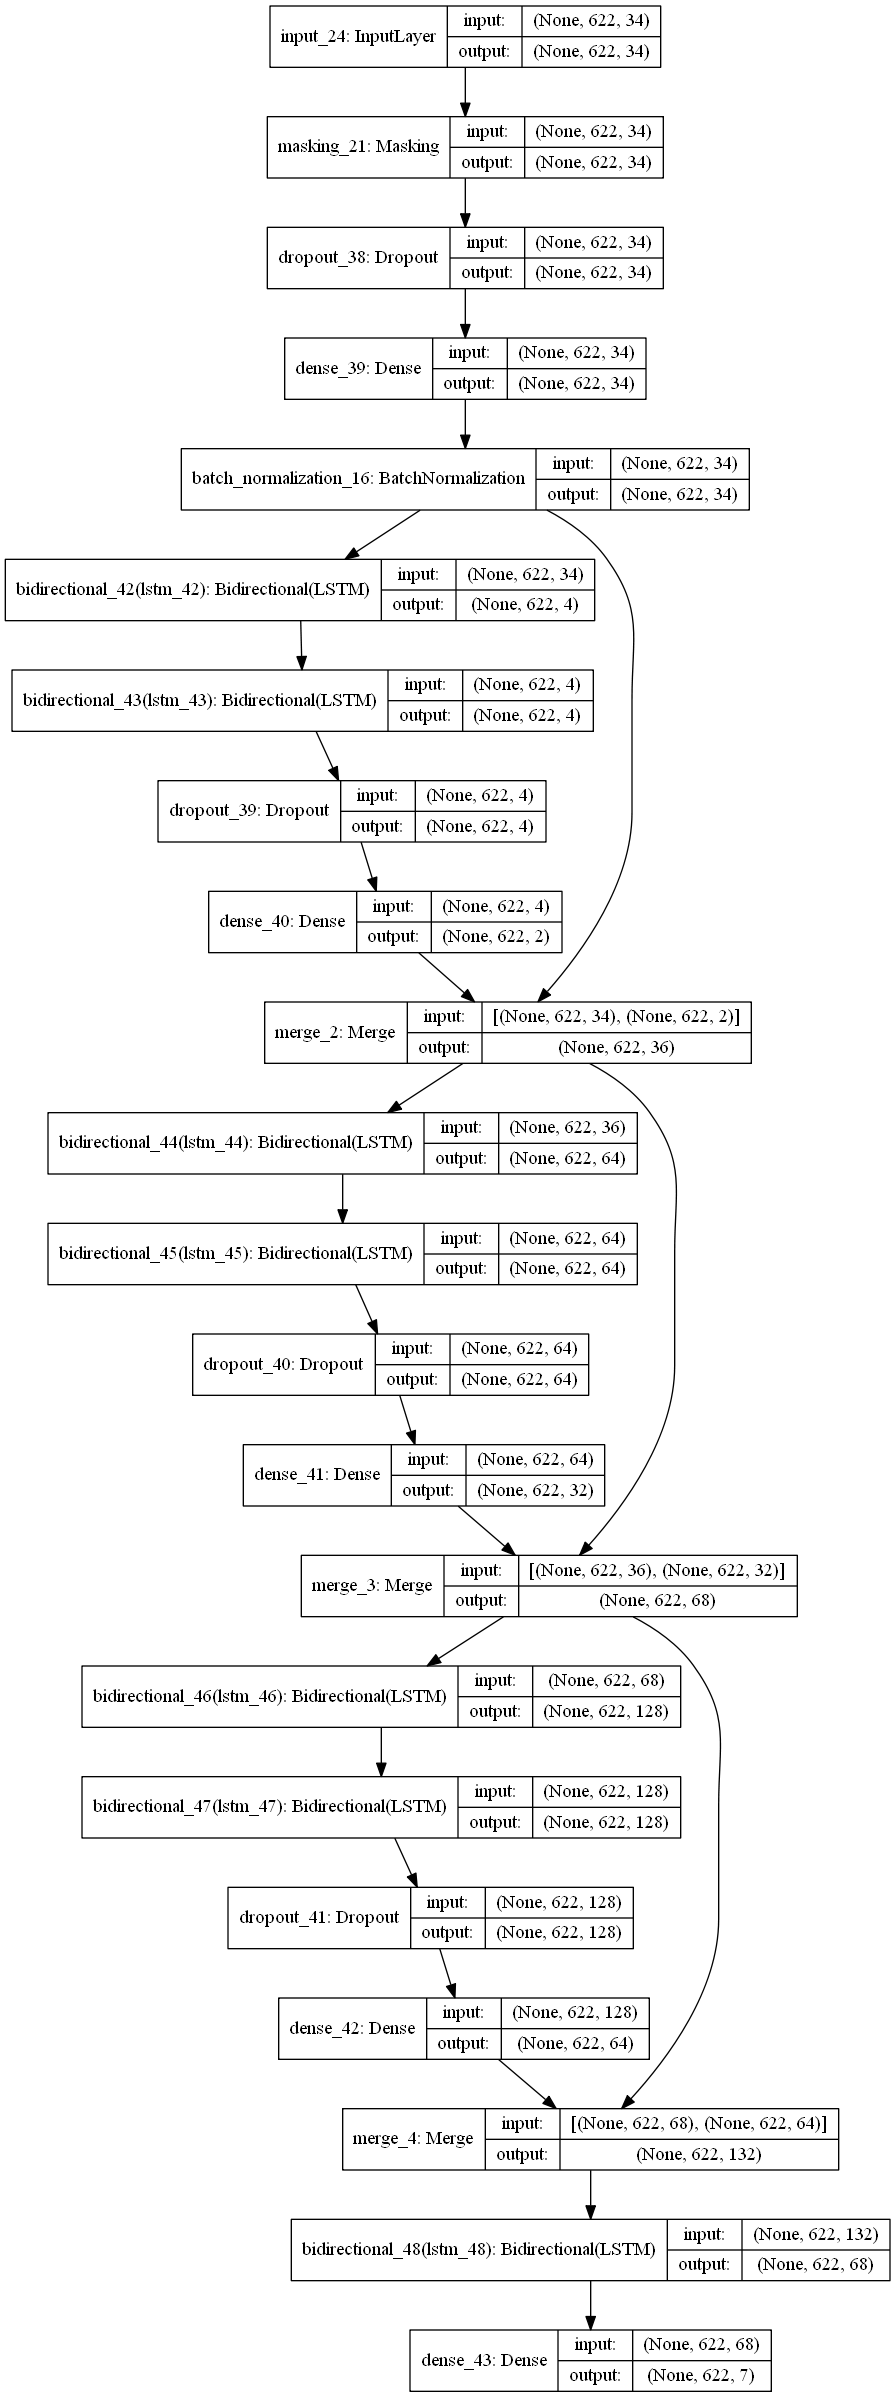
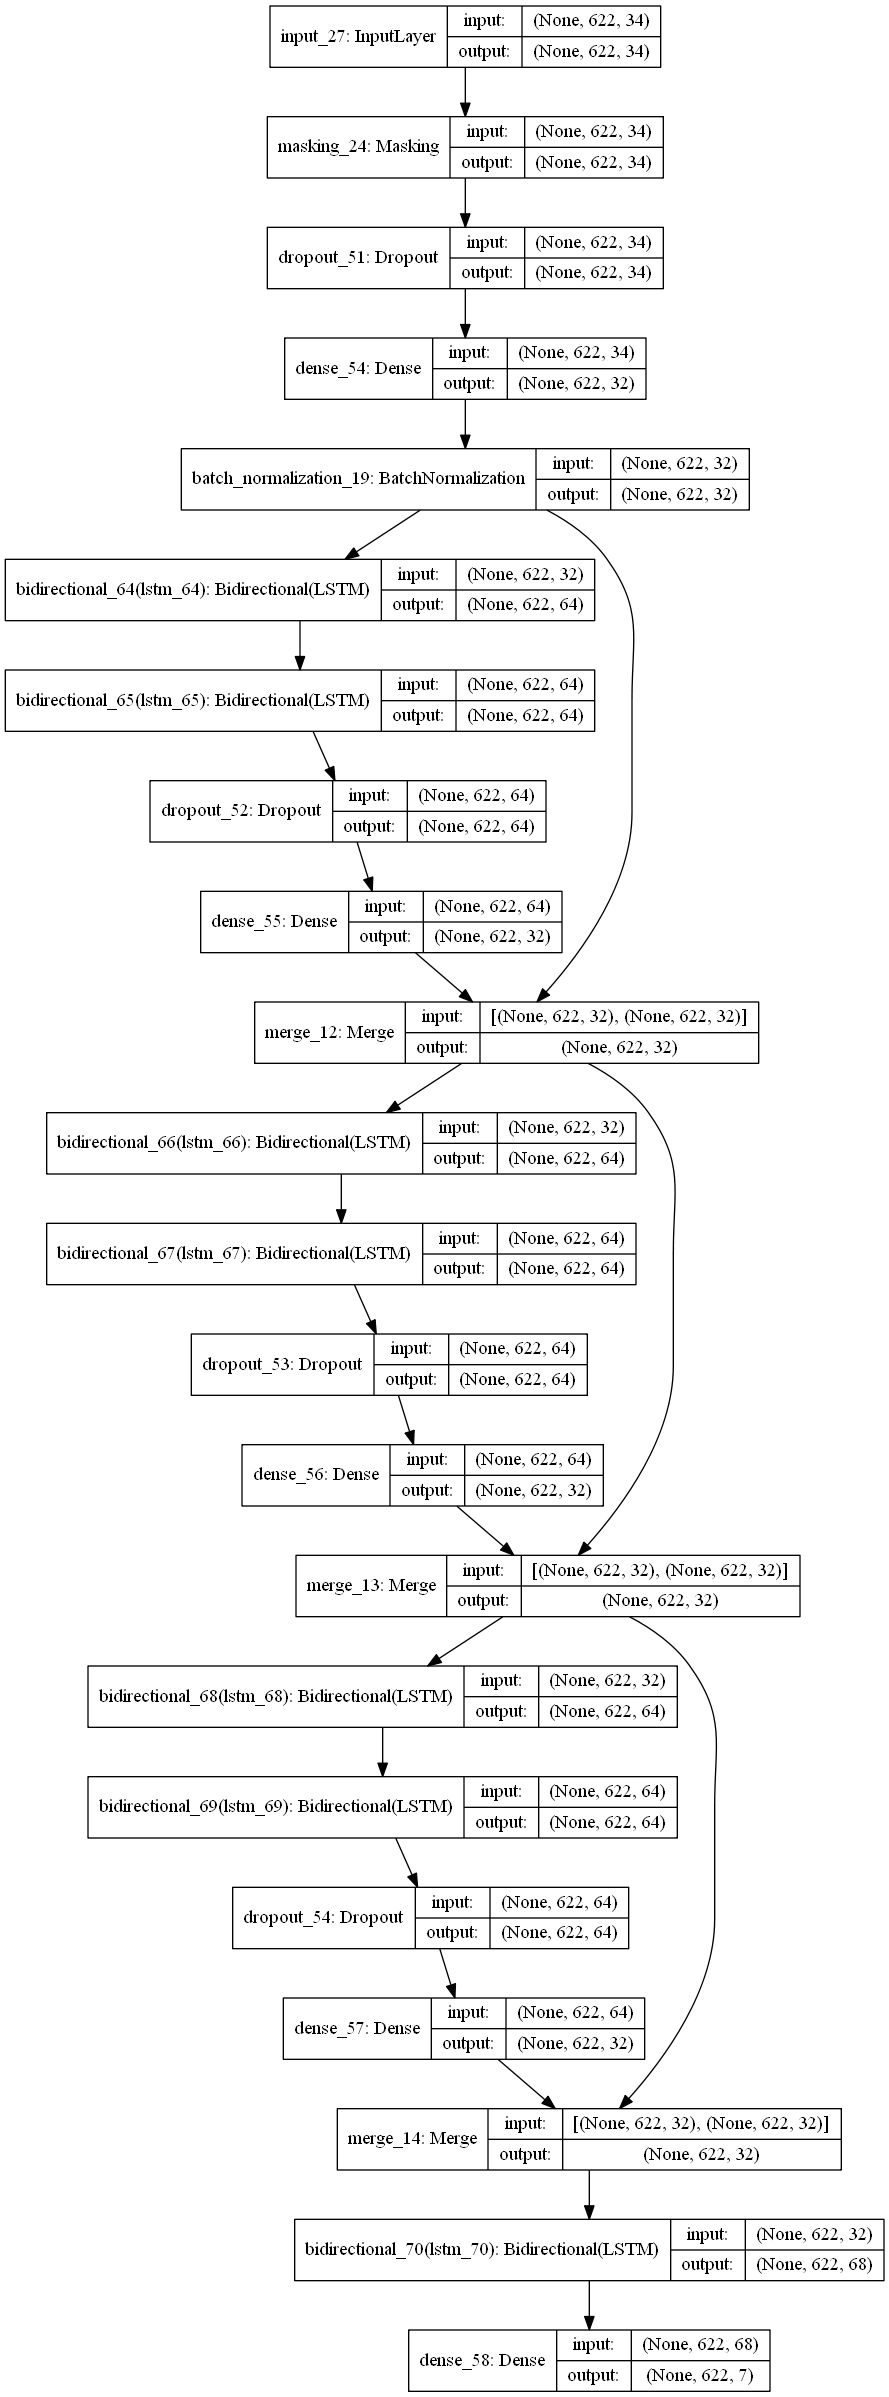
introducing deep and wide residual networks

diff --git a/build_model_residual.py b/build_model_residual.py
@@ -32,7 +32,7 @@ from keras.layers import BatchNormalization
 
 from keras.constraints import max_norm
 #%%   
-def ResNet_LSTM_Beta(X_train,Y_train,dropout,hidden_units,Dense_Unit,activationF,residual_blocks):   
+def ResNet_deep_Beta(X_train,Y_train,dropout,hidden_units,Dense_Unit,activationF,residual_blocks):   
 
        def Block_unit(X_train,dropout,activationF,hidden_units,Dense_Unit):
             def unit(x):
@@ -60,9 +60,9 @@ def ResNet_LSTM_Beta(X_train,Y_train,dropout,hidden_units,Dense_Unit,activationF
        i=layers.Dense(Dense_Unit, activation=activationF, kernel_constraint=max_norm(max_value=3.))(i) 
        i=BatchNormalization(axis=1)(i)     
           
-       i = cake(residual_blocks,2,X_train,dropout,activationF)(i) 
        i = cake(residual_blocks,32,X_train,dropout,activationF)(i) 
-       i = cake(residual_blocks,64,X_train,dropout,activationF)(i)
+       i = cake(residual_blocks,32,X_train,dropout,activationF)(i) 
+       i = cake(residual_blocks,32,X_train,dropout,activationF)(i)
        
                
        i=layers.Bidirectional(LSTM(hidden_units, return_sequences=True, kernel_constraint=max_norm(max_value=3.), dropout=dropout, recurrent_dropout=dropout))(i)                   
@@ -71,107 +71,55 @@ def ResNet_LSTM_Beta(X_train,Y_train,dropout,hidden_units,Dense_Unit,activationF
        model = Model(inputs=inp,outputs=i)  
        
        return model
-#%%   
-def ResNet_LSTM_1(X_train,Y_train,dropout,hidden_units,activationF,residual_blocks):   
 
-       def Block_unit(which,X_train,dropout,activationF,hidden_units,x):
-            def intro(x,X_train,activationF):
-                 x=layers.Masking(mask_value=666,input_shape=(X_train.shape[1],X_train.shape[2]))(x)
-                 x=layers.Dropout(dropout/2, noise_shape=(None, 1, X_train.shape[2]))(x)
-                 x=layers.Dense(34, activation=activationF, kernel_constraint=max_norm(max_value=3.))(x) 
-                 x=BatchNormalization(axis=1)(x)         
-                 return x
-            
-            def residual_LSTM_block(X_train,hidden_units,dropout):
+#%%    
+def ResNet_wide_Beta(X_train,Y_train,dropout,hidden_units,Dense_Unit,activationF,residual_blocks):   
+
+       def Block_unit(X_train,dropout,activationF,hidden_units,Dense_Unit):
+            def unit(x):
                  ident = x
                  x=layers.Bidirectional(LSTM(hidden_units, return_sequences=True, kernel_constraint=max_norm(max_value=3.), dropout=dropout, recurrent_dropout=dropout))(x)
-                 x=layers.Bidirectional(LSTM(hidden_units, return_sequences=True, kernel_constraint=max_norm(max_value=3.), dropout=dropout, recurrent_dropout=dropout))(x)                   
+                 x=layers.Bidirectional(LSTM(hidden_units, return_sequences=True, kernel_constraint=max_norm(max_value=3.), dropout=dropout, recurrent_dropout=dropout))(x)                                    
                  x=layers.Dropout(dropout, noise_shape=(None, 1, hidden_units*2))(x) 
-                 x=layers.Dense(hidden_units, activation=activationF, kernel_constraint=max_norm(max_value=3.))(x)                                  
-#                 x = merge([ident,x],mode='sum')
+                 x=layers.Dense(Dense_Unit, activation=activationF, kernel_constraint=max_norm(max_value=3.))(x)                                                  
+                 x = merge([ident,x], mode = 'sum') #mode 'sum' concat
                  return x
-
-            def outro(X_train,Y_train,hidden_units,dropout):
-                 ident = x
-                 x=layers.Bidirectional(LSTM(hidden_units, return_sequences=True, kernel_constraint=max_norm(max_value=3.), dropout=dropout, recurrent_dropout=dropout))(x)
-                 x=layers.Bidirectional(LSTM(hidden_units, return_sequences=True, kernel_constraint=max_norm(max_value=3.), dropout=dropout, recurrent_dropout=dropout))(x)                   
-                 x=layers.Dropout(dropout, noise_shape=(None, 1, hidden_units*2))(x) 
-                 x=layers.Dense(Y_train.shape[-1],activation='softmax', kernel_constraint=max_norm(max_value=3.))(x)
-#                 x = merge([ident,x],mode='sum')
-            return x         
+            return unit
                              
-            if which==0:
-                 out=intro(x,X_train,activationF)(x)
-            if which == 1337:
-                 out=outro(x,X_train,Y_train,hidden_units,dropout)(x)
-            else:
-                out=residual_LSTM_block(x,X_train,hidden_units,dropout)(x)                  
-
-            return out
-            
        def cake(residual_blocks,hidden_units,X_train,dropout,activationF):
               def unit(x):
                      for j in range(residual_blocks):
-                            if residual_blocks==1:
-                                   x=Block_unit(j,X_train,dropout,activationF,hidden_units,x)(x)  
-                                   x=Block_unit(1,X_train,dropout,activationF,hidden_units,x)(x)                            
-                                   x=Block_unit(1337,X_train,dropout,activationF,hidden_units,x)(x)
-                            else:
-                                   if i!=(residual_blocks-1): 
-                                          x=Unit(j,X_train,dropout,activationF,x,hidden_units)(x)  
-                                   else:
-                                          x=Unit(1337,X_train,dropout,activationF,x,hidden_units)(x)
-                            return x
-                           
+                         x=Block_unit(X_train,dropout,activationF,hidden_units,Dense_Unit)(x)              
+                         return x                          
               return unit
     
        
        inp = Input(shape=(X_train.shape[1],X_train.shape[2]))
 #       i = inp
-              
-       i = cake(residual_blocks,2,X_train,dropout,activationF)(inp) 
-       i = cake(residual_blocks,32,X_train,dropout,activationF)(i) 
-       i = cake(residual_blocks,64,X_train,dropout,activationF)(i)
-       
-       i=layers.Bidirectional(LSTM(hidden_units, return_sequences=True, kernel_constraint=max_norm(max_value=3.), dropout=dropout, recurrent_dropout=dropout))(i)                   
-       i = Dense(Y_train.shape[-1],activation='softmax', kernel_constraint=max_norm(max_value=3.))(i)
-
-       model = Model(inputs=inp,outputs=i)  
-       
-       return model
-       
-#%%       
-       
-def ResNeXt_LSTM_1(x):
-       def Add_common_layers(y,activationF):
-              y=layers.Masking(mask_value=666,input_shape=(y.shape[1],y.shape[2]))(y)
-              y=layers.Dropout(0.2, noise_shape=(None, 1, y.shape[2]))(y)
-              y=layers.Dense(32, activation=activationF, kernel_constraint=max_norm(max_value=3.))(y)
-              return y
-       
-       def grouped_LSTM(y,hidden_units,dropout,NR_Wege):
-              if cardinality == 1:
-                     y=layers.Bidirectional(LSTM(hidden_units, return_sequences=True, kernel_constraint=max_norm(max_value=3.), dropout=dropout, recurrent_dropout=dropout))(y)
-                     y=layers.Bidirectional(LSTM(hidden_units, return_sequences=True, kernel_constraint=max_norm(max_value=3.), dropout=dropout, recurrent_dropout=dropout))(y)
-                     return y
-                     assert not NR_Wege % cardinality
-              _d = NR_Wege // cardinality
-
-        # in a grouped convolution layer, input and output channels are divided into `cardinality` groups,
-        # and convolutions are separately performed within each group
-              groups = []
-              for j in range(cardinality):
-                  group = layers.Lambda(lambda z: z[:, :, :, j * _d:j * _d + _d])(y)
-                  groups.append(layers.Conv2D(_d, kernel_size=(3, 3), strides=_strides, padding='same')(group))
+       i=layers.Masking(mask_value=666,input_shape=(X_train.shape[1],X_train.shape[2]))(inp)
+       i=layers.Dropout(dropout/2, noise_shape=(None, 1, X_train.shape[2]))(i)
+       i=layers.Dense(Dense_Unit, activation=activationF, kernel_constraint=max_norm(max_value=3.))(i) 
+       intro_out=BatchNormalization(axis=1)(i)     
             
-        # the grouped convolutional layer concatenates them as the outputs of the layer
-              y = layers.concatenate(groups)
-              return y
-              
-       def end(y):
-              y=layers.Dropout()
-              y=layers.Dense()
+       Pfad1 = cake(residual_blocks,32,X_train,dropout,activationF)(intro_out) 
+       Pfad1 = cake(residual_blocks,32,X_train,dropout,activationF)(Pfad1) 
+       
+       Pfad2 = cake(residual_blocks,2,X_train,dropout,activationF)(intro_out) 
+       Pfad2 = cake(residual_blocks,2,X_train,dropout,activationF)(Pfad2) 
 
-   
+       Pfad3 = cake(residual_blocks,64,X_train,dropout,activationF)(intro_out) 
+       Pfad3 = cake(residual_blocks,64,X_train,dropout,activationF)(Pfad3) 
+       
+       i = layers.concatenate([Pfad1, Pfad2, Pfad3])
+
+       
+               
+       Outro_out=layers.Bidirectional(LSTM(hidden_units, return_sequences=True, kernel_constraint=max_norm(max_value=3.), dropout=dropout, recurrent_dropout=dropout))(i)                   
+       Outro_out = Dense(Y_train.shape[-1],activation='softmax', kernel_constraint=max_norm(max_value=3.))(Outro_out)
+
+       model = Model(inputs=inp,outputs=Outro_out)  
+       
+       return model       
+
   
           

diff --git a/Abstellgleis.py b/Abstellgleis.py
@@ -1,0 +1,107 @@
+# -*- coding: utf-8 -*-
+"""
+Created on Fri Jun 29 13:03:17 2018
+
+@author: 310122653
+"""
+
+#%%   
+def ResNet_LSTM_1(X_train,Y_train,dropout,hidden_units,activationF,residual_blocks):   
+
+       def Block_unit(which,X_train,dropout,activationF,hidden_units,x):
+            def intro(x,X_train,activationF):
+                 x=layers.Masking(mask_value=666,input_shape=(X_train.shape[1],X_train.shape[2]))(x)
+                 x=layers.Dropout(dropout/2, noise_shape=(None, 1, X_train.shape[2]))(x)
+                 x=layers.Dense(34, activation=activationF, kernel_constraint=max_norm(max_value=3.))(x) 
+                 x=BatchNormalization(axis=1)(x)         
+                 return x
+            
+            def residual_LSTM_block(X_train,hidden_units,dropout):
+                 ident = x
+                 x=layers.Bidirectional(LSTM(hidden_units, return_sequences=True, kernel_constraint=max_norm(max_value=3.), dropout=dropout, recurrent_dropout=dropout))(x)
+                 x=layers.Bidirectional(LSTM(hidden_units, return_sequences=True, kernel_constraint=max_norm(max_value=3.), dropout=dropout, recurrent_dropout=dropout))(x)                   
+                 x=layers.Dropout(dropout, noise_shape=(None, 1, hidden_units*2))(x) 
+                 x=layers.Dense(hidden_units, activation=activationF, kernel_constraint=max_norm(max_value=3.))(x)                                  
+#                 x = merge([ident,x],mode='sum')
+                 return x
+
+            def outro(X_train,Y_train,hidden_units,dropout):
+                 ident = x
+                 x=layers.Bidirectional(LSTM(hidden_units, return_sequences=True, kernel_constraint=max_norm(max_value=3.), dropout=dropout, recurrent_dropout=dropout))(x)
+                 x=layers.Bidirectional(LSTM(hidden_units, return_sequences=True, kernel_constraint=max_norm(max_value=3.), dropout=dropout, recurrent_dropout=dropout))(x)                   
+                 x=layers.Dropout(dropout, noise_shape=(None, 1, hidden_units*2))(x) 
+                 x=layers.Dense(Y_train.shape[-1],activation='softmax', kernel_constraint=max_norm(max_value=3.))(x)
+#                 x = merge([ident,x],mode='sum')
+            return x         
+                             
+            if which==0:
+                 out=intro(x,X_train,activationF)(x)
+            if which == 1337:
+                 out=outro(x,X_train,Y_train,hidden_units,dropout)(x)
+            else:
+                out=residual_LSTM_block(x,X_train,hidden_units,dropout)(x)                  
+
+            return out
+            
+       def cake(residual_blocks,hidden_units,X_train,dropout,activationF):
+              def unit(x):
+                     for j in range(residual_blocks):
+                            if residual_blocks==1:
+                                   x=Block_unit(j,X_train,dropout,activationF,hidden_units,x)(x)  
+                                   x=Block_unit(1,X_train,dropout,activationF,hidden_units,x)(x)                            
+                                   x=Block_unit(1337,X_train,dropout,activationF,hidden_units,x)(x)
+                            else:
+                                   if i!=(residual_blocks-1): 
+                                          x=Unit(j,X_train,dropout,activationF,x,hidden_units)(x)  
+                                   else:
+                                          x=Unit(1337,X_train,dropout,activationF,x,hidden_units)(x)
+                            return x
+                           
+              return unit
+    
+       
+       inp = Input(shape=(X_train.shape[1],X_train.shape[2]))
+#       i = inp
+              
+       i = cake(residual_blocks,2,X_train,dropout,activationF)(inp) 
+       i = cake(residual_blocks,32,X_train,dropout,activationF)(i) 
+       i = cake(residual_blocks,64,X_train,dropout,activationF)(i)
+       
+       i=layers.Bidirectional(LSTM(hidden_units, return_sequences=True, kernel_constraint=max_norm(max_value=3.), dropout=dropout, recurrent_dropout=dropout))(i)                   
+       i = Dense(Y_train.shape[-1],activation='softmax', kernel_constraint=max_norm(max_value=3.))(i)
+
+       model = Model(inputs=inp,outputs=i)  
+       
+       return model
+#%%       
+def ResNeXt_LSTM_1(x):
+       def Add_common_layers(y,activationF):
+              y=layers.Masking(mask_value=666,input_shape=(y.shape[1],y.shape[2]))(y)
+              y=layers.Dropout(0.2, noise_shape=(None, 1, y.shape[2]))(y)
+              y=layers.Dense(32, activation=activationF, kernel_constraint=max_norm(max_value=3.))(y)
+              return y
+       
+       def grouped_LSTM(y,hidden_units,dropout,NR_Wege):
+              if cardinality == 1:
+                     y=layers.Bidirectional(LSTM(hidden_units, return_sequences=True, kernel_constraint=max_norm(max_value=3.), dropout=dropout, recurrent_dropout=dropout))(y)
+                     y=layers.Bidirectional(LSTM(hidden_units, return_sequences=True, kernel_constraint=max_norm(max_value=3.), dropout=dropout, recurrent_dropout=dropout))(y)
+                     return y
+                     assert not NR_Wege % cardinality
+              _d = NR_Wege // cardinality
+
+        # in a grouped convolution layer, input and output channels are divided into `cardinality` groups,
+        # and convolutions are separately performed within each group
+              groups = []
+              for j in range(cardinality):
+                  group = layers.Lambda(lambda z: z[:, :, :, j * _d:j * _d + _d])(y)
+                  groups.append(layers.Conv2D(_d, kernel_size=(3, 3), strides=_strides, padding='same')(group))
+            
+        # the grouped convolutional layer concatenates them as the outputs of the layer
+              y = layers.concatenate(groups)
+              return y
+              
+       def end(y):
+              y=layers.Dropout()
+              y=layers.Dense()
+
+   

diff --git a/DNN_routines.py b/DNN_routines.py
@@ -33,7 +33,9 @@ from build_model import LSTM_model_2
 from build_model import LSTM_model_3
 from build_model import LSTM_model_3_advanced
 
-from build_model_residual import ResNet_LSTM_Beta
+from build_model_residual import ResNet_deep_Beta
+from build_model_residual import ResNet_wide_Beta
+
 #from build_model_residual import ResNet_LSTM_1
 
 
@@ -61,9 +63,10 @@ def KeraS(X_train, Y_train, X_val, Y_val, X_test, Y_test, batchsize,Epochs,dropo
 #    model=LSTM_model_2(X_train,Y_train,dropout,hidden_units,MaskWert)
 #    model=LSTM_model_3_advanced(X_train,Y_train,dropout,hidden_units,activationF)
     residual_blocks=1
-    model=ResNet_LSTM_Beta(X_train,Y_train,dropout,hidden_units,Dense_Unit,activationF,residual_blocks)
-#    model=ResNet_LSTM_1(X_train,Y_train,dropout,hidden_units,activationF,residual_blocks)
-    
+    model=ResNet_deep_Beta(X_train,Y_train,dropout,hidden_units,Dense_Unit,activationF,residual_blocks)
+#    model=ResNet_wide_Beta(X_train,Y_train,dropout,hidden_units,Dense_Unit,activationF,residual_blocks)
+    from keras.utils.vis_utils import plot_model    
+    plot_model(model, to_file='model_plot.png', show_shapes=True, show_layer_names=True)   
 #MODEL PARAMETERS    
     model.compile(loss=Loss_Function, 
                   optimizer='adam',
@@ -84,8 +87,7 @@ def KeraS(X_train, Y_train, X_val, Y_val, X_test, Y_test, batchsize,Epochs,dropo
                        validation_data=(X_val,Y_val),
                        shuffle=False)
     
-    from keras.utils.vis_utils import plot_model    
-    plot_model(model, to_file='model_plot.png', show_shapes=True, show_layer_names=True)
+
     
 #EVALUATE MODEL     
     test_loss,test_metric=model.evaluate(X_test,Y_test,batch_size=batchsize)        
